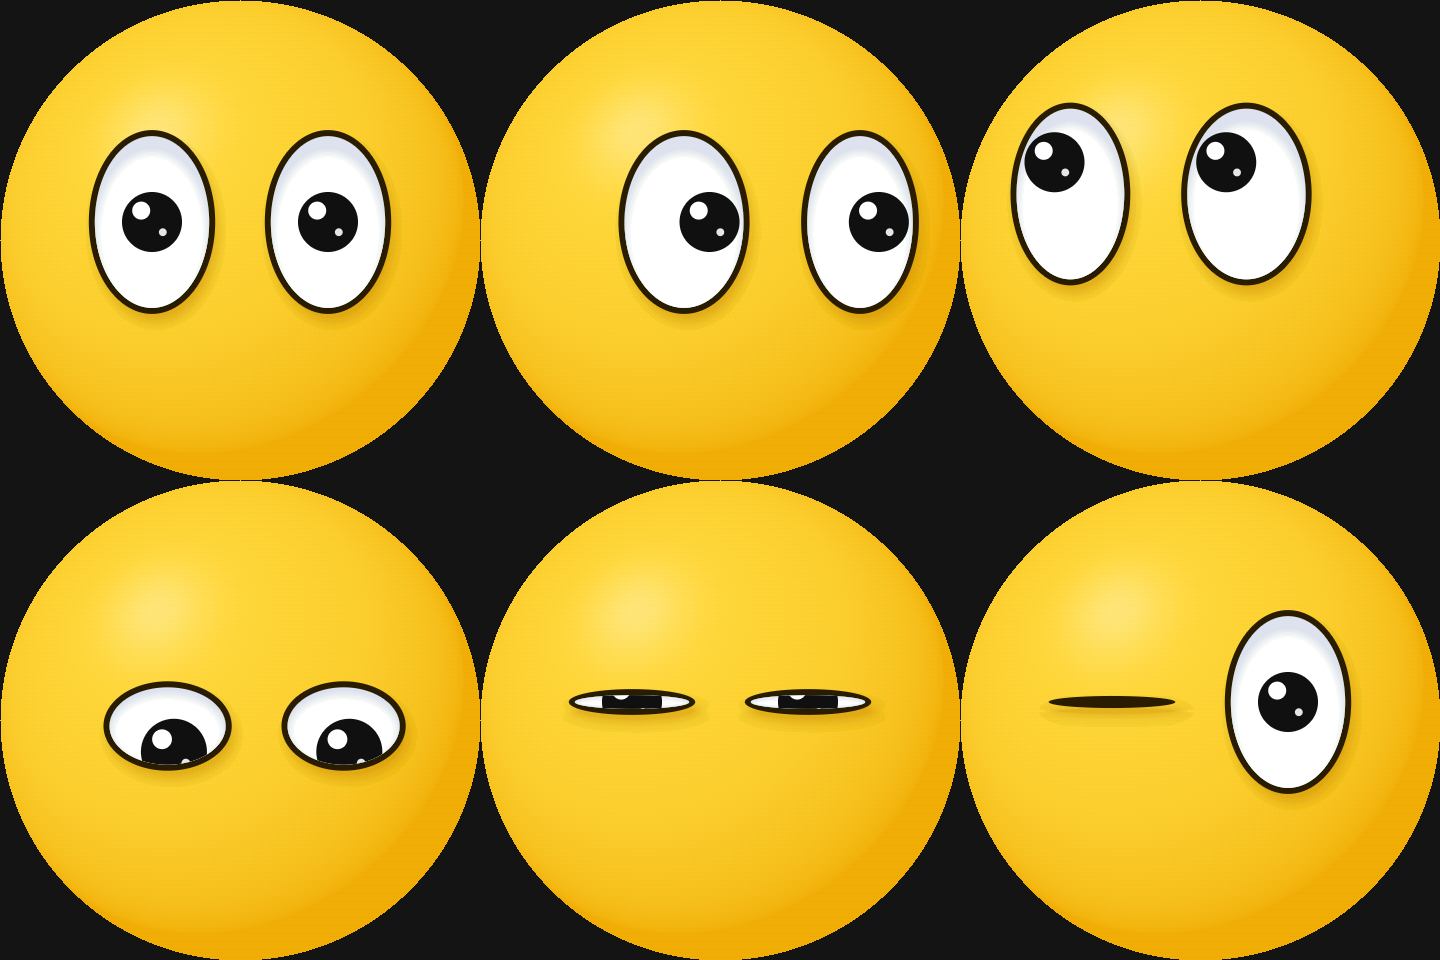
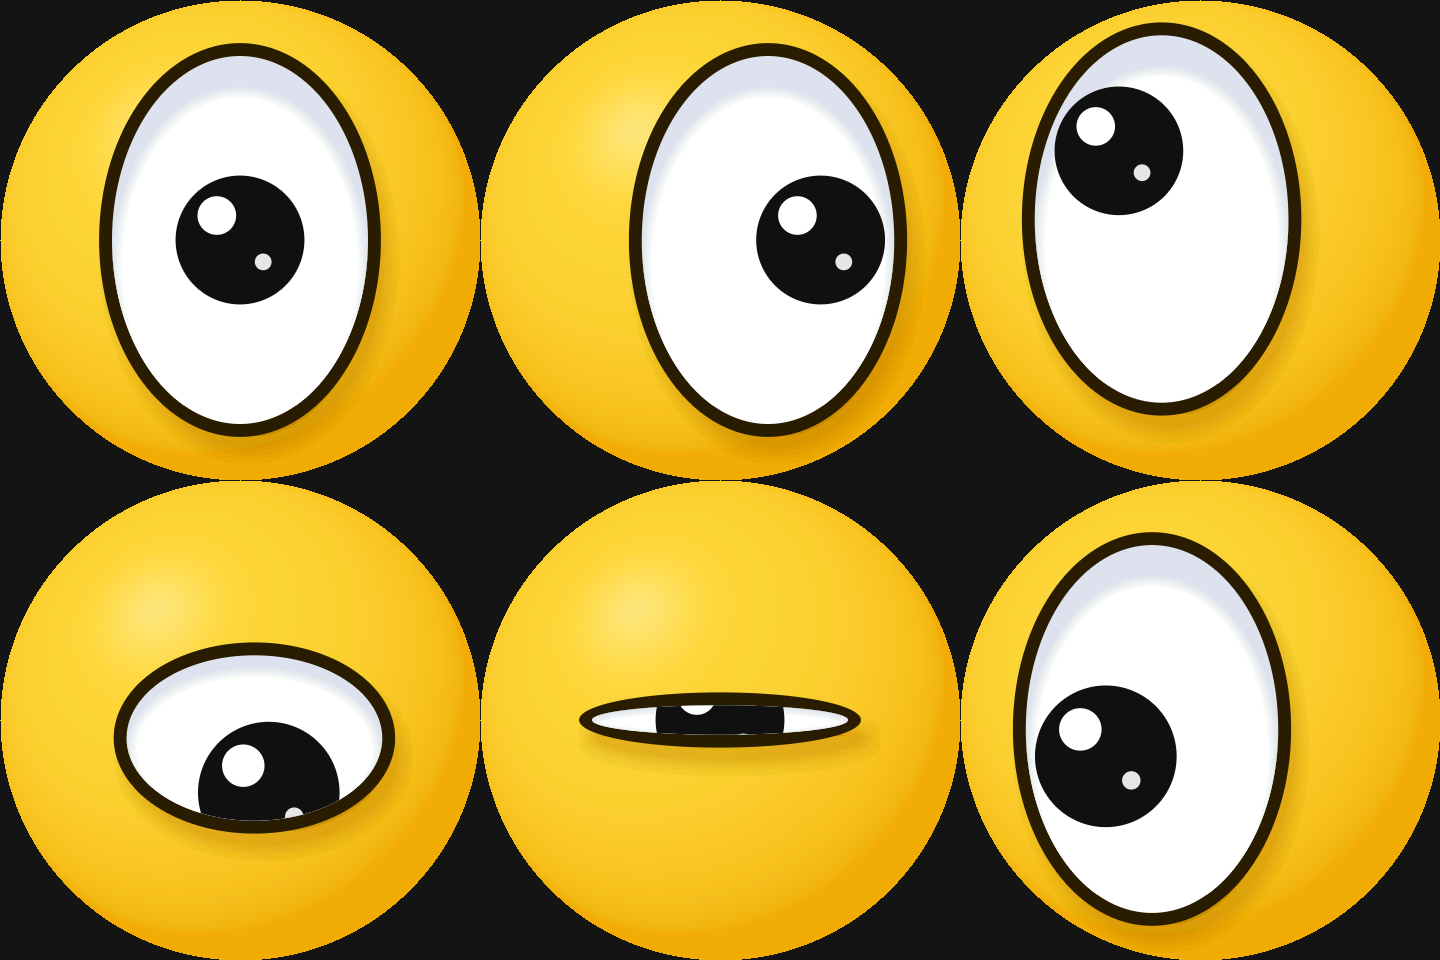
One eye per board: big single-eye Sphere style, eye side setting, less overdraw
- eyeStyleSphere now draws one large eye per screen; the two-eye layout stays as eyeStyleSphereFace
- Eye proportions scale with size; APP_EYE_IS_LEFT picks which eye of the pair a board is (winks, sync)
- Canvas fills can skip a hole that a later layer covers, so the big eye still renders at 30 fps

diff --git a/components/eyes/styles/style_sphere.c b/components/eyes/styles/style_sphere.c
@@ -1,5 +1,6 @@
-// style_sphere.c - Las Vegas Sphere look: a shaded yellow ball with two tall white cartoon eyes.
-// Eyes slide across the ball when looking around and get narrower near the rim, like a real globe.
+// style_sphere.c - Las Vegas Sphere look: shaded yellow ball with tall white cartoon eyes.
+// eyeStyleSphere draws one big eye per screen (each board is one eye). eyeStyleSphereFace puts both eyes
+// on one screen. Eyes slide across the ball when looking around and get narrower near the rim, like a globe.
 #include "eye_style.h"
 
 #include <math.h>
@@ -18,17 +19,28 @@
 // ---------- Geometry (480x480 screen) ----------
 #define SCREEN_C        240.0f      // Screen and ball center
 #define BALL_R          240.0f      // Ball radius = round panel radius
-#define EYE_SPACING     88.0f       // Eye center distance from the middle
-#define EYE_Y           222.0f      // Eye center height at rest
-#define EYE_RX          60.0f       // Eye half width
-#define EYE_RY          86.0f       // Eye half height
-#define OUTLINE_W       6.0f        // Outline thickness
-#define PUPIL_R         30.0f       // Pupil radius
-#define FACE_SHIFT_X    52.0f       // How far the whole face slides at full gaze
-#define FACE_SHIFT_Y    40.0f
-#define SHADOW_DX       4.0f        // Drop shadow offset and softness
-#define SHADOW_DY       9.0f
-#define SHADOW_SOFT     14.0f
+
+// Proportions of one eye, relative to its half height (ry). Same look at any size.
+#define OUTLINE_K       0.07f       // Outline thickness
+#define PUPIL_K         0.35f       // Pupil radius
+#define SHADOW_DX_K     0.05f       // Drop shadow offset
+#define SHADOW_DY_K     0.10f
+#define SHADOW_SOFT_MAX 18.0f       // Soft edge limit in px (wider bands cost CPU)
+#define LID_SOFT_MAX    12.0f       // Soft edge of the lid shadow on the white
+
+// One eye per screen (each board is one eye of the face)
+#define EYE1_RX         128.0f      // Eye half width
+#define EYE1_RY         184.0f      // Eye half height
+#define EYE1_SHIFT_X    48.0f       // How far the eye slides at full gaze
+#define EYE1_SHIFT_Y    30.0f
+
+// Two eyes on one screen (whole face on one board)
+#define EYE2_SPACING    88.0f       // Eye center distance from the middle
+#define EYE2_Y          222.0f      // Eye center height at rest
+#define EYE2_RX         60.0f
+#define EYE2_RY         86.0f
+#define EYE2_SHIFT_X    52.0f
+#define EYE2_SHIFT_Y    40.0f
 
 // 4x4 ordered dither, so the gradient has no visible bands in RGB565
 static const uint8_t bayer4[4][4] = {{0, 8, 2, 10}, {12, 4, 14, 6}, {3, 11, 1, 9}, {15, 7, 13, 5}};
@@ -71,69 +83,103 @@ static void sphereBackground(uint16_t *buf, int w, int h) {
     }
 }
 
-static int sphereLayout(const face_state_t *face, eye_pose_t *poses, int maxPoses) {
+// Fill one pose: size with foreshortening toward the rim, openness, and pupil offset from the gaze
+static void placeEye(const face_state_t *face, eye_pose_t *p, float cx, float cy, float rx, float ry) {
+    p->cx = cx;
+    p->cy = cy;
+    float dx = (cx - SCREEN_C) / BALL_R;                                // Position on the ball, -1..1
+    float dy = (cy - SCREEN_C) / BALL_R;
+    p->rx = rx * (1.0f - 0.35f * dx * dx);                              // Narrower toward the rim, like a globe
+    p->ry = ry * (1.0f - 0.20f * dy * dy);
+    p->openness = p->isLeft ? face->openLeft : face->openRight;
+    p->pupilScale = face->pupilScale;
+    float pr = PUPIL_K * p->ry * p->pupilScale;
+    p->pupilDx = face->gazeX * (p->rx - pr - 0.05f * p->ry);           // Pupil looks too, staying inside the white
+    p->pupilDy = face->gazeY * (p->ry - pr - 0.12f * p->ry);
+}
+
+static int sphereEyeLayout(const face_state_t *face, eye_pose_t *poses, int maxPoses) {
+    if (maxPoses < 1) return 0;
+    poses[0].isLeft = face->isLeftEye;                                  // This board's eye
+    placeEye(face, &poses[0], SCREEN_C + face->gazeX * EYE1_SHIFT_X, SCREEN_C + face->gazeY * EYE1_SHIFT_Y,
+             EYE1_RX, EYE1_RY);
+    return 1;
+}
+
+static int sphereFaceLayout(const face_state_t *face, eye_pose_t *poses, int maxPoses) {
     if (maxPoses < 2) return 0;
-    float shiftX = face->gazeX * FACE_SHIFT_X;                          // Whole face slides toward the target
-    float shiftY = face->gazeY * FACE_SHIFT_Y;
+    float shiftX = face->gazeX * EYE2_SHIFT_X;                          // Whole face slides toward the target
+    float shiftY = face->gazeY * EYE2_SHIFT_Y;
     for (int i = 0; i < 2; i++) {
-        eye_pose_t *p = &poses[i];
-        p->isLeft = (i == 0);
-        p->cx = SCREEN_C + (p->isLeft ? -EYE_SPACING : EYE_SPACING) + shiftX;
-        p->cy = EYE_Y + shiftY;
-        float dx = (p->cx - SCREEN_C) / BALL_R;                         // Position on the ball, -1..1
-        float dy = (p->cy - SCREEN_C) / BALL_R;
-        p->rx = EYE_RX * (1.0f - 0.35f * dx * dx);                      // Foreshortening toward the rim
-        p->ry = EYE_RY * (1.0f - 0.20f * dy * dy);
-        p->openness = p->isLeft ? face->openLeft : face->openRight;
-        p->pupilScale = face->pupilScale;
-        float pr = PUPIL_R * p->pupilScale;
-        p->pupilDx = face->gazeX * (p->rx - pr - 4.0f);                 // Pupil looks too, staying inside the white
-        p->pupilDy = face->gazeY * (p->ry - pr - 10.0f);
+        poses[i].isLeft = (i == 0);
+        float cx = SCREEN_C + (poses[i].isLeft ? -EYE2_SPACING : EYE2_SPACING) + shiftX;
+        placeEye(face, &poses[i], cx, EYE2_Y + shiftY, EYE2_RX, EYE2_RY);
     }
     return 2;
 }
 
+static float shadowSoft(const eye_pose_t *pose) {
+    float soft = 0.16f * pose->ry;                                      // Softness grows with size, capped
+    return soft > SHADOW_SOFT_MAX ? SHADOW_SOFT_MAX : soft;
+}
+
 static eye_rect_t sphereBounds(const eye_pose_t *pose) {
-    // Drop shadow reaches farthest (offset + soft edge); outline is covered by it
-    eye_ellipse_t shadow = {pose->cx + SHADOW_DX, pose->cy + SHADOW_DY, pose->rx + OUTLINE_W, pose->ry + OUTLINE_W};
-    eye_rect_t r = canvasEllipseBounds(&shadow, SHADOW_SOFT + 1.0f);
-    if (r.x0 > pose->cx - pose->rx - OUTLINE_W - 2) r.x0 = (int)(pose->cx - pose->rx - OUTLINE_W - 2);  // Outline on the other side
-    if (r.y0 > pose->cy - pose->ry - OUTLINE_W - 2) r.y0 = (int)(pose->cy - pose->ry - OUTLINE_W - 2);
+    float ow = OUTLINE_K * pose->ry;
+    // Drop shadow reaches farthest down and right; the outline reaches farthest up and left
+    eye_ellipse_t shadow = {pose->cx + SHADOW_DX_K * pose->ry, pose->cy + SHADOW_DY_K * pose->ry, pose->rx + ow, pose->ry + ow};
+    eye_rect_t r = canvasEllipseBounds(&shadow, shadowSoft(pose) + 1.0f);
+    eye_ellipse_t outline = {pose->cx, pose->cy, pose->rx + ow, pose->ry + ow};
+    eye_rect_t o = canvasEllipseBounds(&outline, 2.0f);
+    if (o.x0 < r.x0) r.x0 = o.x0;
+    if (o.y0 < r.y0) r.y0 = o.y0;
     return r;
 }
 
 static void sphereDrawEye(eye_canvas_t *cv, const eye_pose_t *pose) {
     float open = pose->openness < 0.0f ? 0.0f : (pose->openness > 1.0f ? 1.0f : pose->openness);
     float ry = pose->ry * open;                                         // Blink squashes the eye toward its middle
+    float ow = OUTLINE_K * pose->ry;                                    // Outline width for this size
 
-    eye_ellipse_t shadow = {pose->cx + SHADOW_DX, pose->cy + SHADOW_DY, pose->rx + OUTLINE_W, ry + OUTLINE_W};
-    canvasFillEllipse(cv, &shadow, EYE_SHADOW, 90, SHADOW_SOFT, NULL); // Soft drop shadow on the ball
-
-    eye_ellipse_t outline = {pose->cx, pose->cy, pose->rx + OUTLINE_W, ry + OUTLINE_W};
-    canvasFillEllipse(cv, &outline, EYE_OUTLINE, 255, 1.0f, NULL);     // Shut eye = just this dark line
-    if (ry < 1.0f) return;
-
+    eye_ellipse_t outline = {pose->cx, pose->cy, pose->rx + ow, ry + ow};
     eye_ellipse_t sclera = {pose->cx, pose->cy, pose->rx, ry};
-    canvasFillEllipse(cv, &sclera, SCLERA_SHADE, 255, 1.0f, NULL);     // Shaded white
+    float lidSoft = 0.12f * pose->ry > LID_SOFT_MAX ? LID_SOFT_MAX : 0.12f * pose->ry;
     eye_ellipse_t lit = {pose->cx, pose->cy + ry * 0.14f, pose->rx * 0.97f, ry * 0.95f};
-    canvasFillEllipse(cv, &lit, SCLERA_WHITE, 255, 10.0f, &sclera);    // Bright lower part, soft lid shadow on top
+    eye_ellipse_t litCore = {lit.cx, lit.cy, lit.rx - lidSoft, lit.ry - lidSoft};    // Where the white is solid
+    bool open1 = ry >= 1.0f;                                            // Any white showing
 
-    float pr = PUPIL_R * pose->pupilScale;
+    eye_ellipse_t shadow = {pose->cx + SHADOW_DX_K * pose->ry, pose->cy + SHADOW_DY_K * pose->ry, pose->rx + ow, ry + ow};
+    canvasFillEllipse(cv, &shadow, EYE_SHADOW, 90, shadowSoft(pose), NULL, &outline);   // Soft drop shadow, only outside the eye
+    canvasFillEllipse(cv, &outline, EYE_OUTLINE, 255, 1.0f, NULL, open1 ? &sclera : NULL);   // Shut eye = just this dark line
+    if (!open1) return;
+
+    canvasFillEllipse(cv, &sclera, SCLERA_SHADE, 255, 1.0f, NULL, litCore.ry > 0.0f ? &litCore : NULL);   // Shaded white
+    canvasFillEllipse(cv, &lit, SCLERA_WHITE, 255, lidSoft, &sclera, NULL);   // Bright lower part, soft lid shadow on top
+
+    float pr = PUPIL_K * pose->ry * pose->pupilScale;
     float px = pose->cx + pose->pupilDx;
     float py = pose->cy + pose->pupilDy;
     eye_ellipse_t pupil = {px, py, pr, pr};
-    canvasFillEllipse(cv, &pupil, PUPIL_COLOR, 255, 1.0f, &sclera);    // Pupil, hidden by the lids when blinking
+    canvasFillEllipse(cv, &pupil, PUPIL_COLOR, 255, 1.0f, &sclera, NULL);    // Pupil, hidden by the lids when blinking
 
+    // Glints sit upper left on both eyes: one light source for the whole face
     eye_ellipse_t glintBig = {px - pr * 0.36f, py - pr * 0.38f, pr * 0.30f, pr * 0.30f};
-    canvasFillEllipse(cv, &glintBig, GLINT_COLOR, 255, 1.0f, &sclera); // Main reflection
+    canvasFillEllipse(cv, &glintBig, GLINT_COLOR, 255, 1.0f, &sclera, NULL); // Main reflection
     eye_ellipse_t glintSmall = {px + pr * 0.36f, py + pr * 0.34f, pr * 0.13f, pr * 0.13f};
-    canvasFillEllipse(cv, &glintSmall, GLINT_COLOR, 230, 1.0f, &sclera);   // Second, smaller reflection
+    canvasFillEllipse(cv, &glintSmall, GLINT_COLOR, 230, 1.0f, &sclera, NULL);   // Second, smaller reflection
 }
 
 const eye_style_t eyeStyleSphere = {
     .name = "sphere",
     .renderBackground = sphereBackground,
-    .layout = sphereLayout,
+    .layout = sphereEyeLayout,
+    .bounds = sphereBounds,
+    .drawEye = sphereDrawEye,
+};
+
+const eye_style_t eyeStyleSphereFace = {
+    .name = "sphere_face",
+    .renderBackground = sphereBackground,
+    .layout = sphereFaceLayout,
     .bounds = sphereBounds,
     .drawEye = sphereDrawEye,
 };

diff --git a/components/eyes/eye_canvas.c b/components/eyes/eye_canvas.c
@@ -65,7 +65,7 @@ static inline void innerRange(float cx, float hw, int *a, int *b) {
 }
 
 void canvasFillEllipse(eye_canvas_t *cv, const eye_ellipse_t *shape, uint32_t color, uint8_t alpha,
-                       float edge, const eye_ellipse_t *clip) {
+                       float edge, const eye_ellipse_t *clip, const eye_ellipse_t *hole) {
     if (alpha == 0 || shape->rx <= 0.0f || shape->ry <= 0.0f) return;   // Nothing to draw
     if (edge < 1.0f) edge = 1.0f;                                       // Minimum is 1 px anti-aliasing
     const uint16_t src = canvasRgb565(color);
@@ -73,6 +73,7 @@ void canvasFillEllipse(eye_canvas_t *cv, const eye_ellipse_t *shape, uint32_t co
     const int alpha256 = alpha + (alpha >> 7);                          // 0..255 -> 0..256
     const prepared_t s = prepare(shape);
     const prepared_t c = clip ? prepare(clip) : s;
+    const prepared_t hp = hole ? prepare(hole) : s;
 
     // Rows the shape can touch, limited to the canvas
     int yStart = (int)floorf(shape->cy - shape->ry - edge);
@@ -111,12 +112,21 @@ void canvasFillEllipse(eye_canvas_t *cv, const eye_ellipse_t *shape, uint32_t co
         if (sb > xb) sb = xb;
         if (sb < sa) sb = sa;
 
-        uint16_t *row = cv->buf + (y - cv->y0) * cv->w - cv->x0;        // Index with screen x
-        for (int x = sa; x < sb; x++) {                                 // Solid run
-            row[x] = (alpha256 >= 256) ? src : blend565(row[x], src, alpha256);
+        int ha = xb, hb = xb;                                           // Pixels to skip (inside the hole)
+        if (hole) {
+            float holeIn = halfWidth(&hp, py - hp.cy, -1.0f);
+            if (holeIn >= 0.0f) innerRange(hp.cx, holeIn, &ha, &hb);
+            if (hb <= ha) ha = hb = xb;
         }
+
+        uint16_t *row = cv->buf + (y - cv->y0) * cv->w - cv->x0;        // Index with screen x
+        int runEnd = sb < ha ? sb : ha;                                 // Solid run up to the hole
+        int runStart = sa > hb ? sa : hb;                               // Solid run after the hole
+        for (int x = sa; x < runEnd; x++) row[x] = (alpha256 >= 256) ? src : blend565(row[x], src, alpha256);
+        for (int x = runStart; x < sb; x++) row[x] = (alpha256 >= 256) ? src : blend565(row[x], src, alpha256);
         for (int x = xa; x < xb; x++) {                                 // Edge pixels on both sides
             if (x == sa && sb > sa) { x = sb - 1; continue; }           // Skip the solid run
+            if (x >= ha && x < hb) { x = hb - 1; continue; }            // Skip the hole
             float px = x + 0.5f;
             float cov = coverage(&s, px, py, invEdge);
             if (clip && (x < ca || x >= cb)) {                          // Near the clip edge: combine coverages

diff --git a/components/eyes/include/eye_style.h b/components/eyes/include/eye_style.h
@@ -17,6 +17,7 @@ typedef struct {
     float openLeft, openRight;  // Lid openness, 0 shut .. 1 open
     float pupilScale;           // 1 = normal, >1 dilated
     uint32_t timeMs;            // Animation clock, for styles with idle motion
+    bool isLeftEye;             // Which eye this board shows (one-eye styles), viewer's left = true
 } face_state_t;
 
 // One eye ready to draw, in screen pixels
@@ -38,7 +39,8 @@ typedef struct eye_style {
 } eye_style_t;
 
 // Built-in styles (styles/*.c)
-extern const eye_style_t eyeStyleSphere;      // Yellow ball, white cartoon eyes (Las Vegas Sphere)
+extern const eye_style_t eyeStyleSphere;      // Yellow ball, one big white cartoon eye per screen (Las Vegas Sphere)
+extern const eye_style_t eyeStyleSphereFace;  // Same look, both eyes on one screen
 
 #ifdef __cplusplus
 }

diff --git a/components/eyes/include/eye_canvas.h b/components/eyes/include/eye_canvas.h
@@ -27,8 +27,9 @@ typedef struct {
 
 // Fill an ellipse. color = 0xRRGGBB, alpha 0..255, edge = soft edge width in px (1 = crisp anti-aliasing).
 // clip = optional ellipse the fill is limited to (anti-aliased), or NULL.
+// hole = optional ellipse to skip, for areas a later layer covers solidly anyway (saves overdraw), or NULL.
 void canvasFillEllipse(eye_canvas_t *cv, const eye_ellipse_t *shape, uint32_t color, uint8_t alpha,
-                       float edge, const eye_ellipse_t *clip);
+                       float edge, const eye_ellipse_t *clip, const eye_ellipse_t *hole);
 
 // Bounding box of an ellipse grown by margin px
 eye_rect_t canvasEllipseBounds(const eye_ellipse_t *e, float margin);

diff --git a/main/app_main.c b/main/app_main.c
@@ -62,6 +62,7 @@ static void renderTask(void *arg) {
     while (true) {
         syncStep();
         eyeAnimatorUpdate(nowMs(), &face);                              // Where to look, how open
+        face.isLeftEye = APP_EYE_IS_LEFT;                               // Which eye of the pair this board draws
         eyeRendererDraw(&face);                                         // Draw and flip
         if (++frames == APP_TARGET_FPS * 10) {                          // Frame rate in the log every 10 s
             uint32_t elapsed = nowMs() - fpsStartMs;

diff --git a/main/app_config.h b/main/app_config.h
@@ -3,6 +3,11 @@
 
 #include "board_config.h"
 
+// ---------- Which eye this board is ----------
+// Each board shows one eye. Mount the boards side by side as seen by the viewer.
+// 1 = viewer's left eye, 0 = viewer's right eye. Matters for winks and the ESP-NOW pair.
+#define APP_EYE_IS_LEFT         1
+
 // ---------- Rendering ----------
 #define APP_TARGET_FPS          30          // Animation frame rate (panel refreshes at about 64 Hz)
 #define APP_RENDER_CORE         1           // CPU core for the render task (Wi-Fi runs on core 0)

diff --git a/README.md b/README.md
@@ -1,8 +1,9 @@
 # ESP32_S3_LasVegasSpereEyes
 
 Las Vegas Sphere style eyeballs on the Waveshare ESP32-S3-Touch-LCD-2.8C (round 480x480 ST7701S panel).
-A shaded yellow ball with two white cartoon eyes that look around and blink. Later: follow people with an
-HLK-LD2450 radar, and keep two boards in step over ESP-NOW.
+Each board is one eye: a shaded yellow ball with a big white cartoon eye that looks around and blinks.
+Two boards side by side make the face. Later: follow people with an HLK-LD2450 radar, and keep the two
+boards in step over ESP-NOW.
 
 ![Preview](docs/preview.png)
 
@@ -28,7 +29,7 @@ Run that from the build folder. The boot log prints the frame rate every 10 s (1
 | File | What |
 |---|---|
 | `components/board/include/board_config.h` | Pins, panel timing, backlight level |
-| `main/app_config.h` | Frame rate, radar pins and on/off, ESP-NOW role |
+| `main/app_config.h` | Which eye this board is (`APP_EYE_IS_LEFT`), frame rate, radar pins and on/off, ESP-NOW role |
 | `main/secrets.h` | ESP-NOW keys and peer MAC. Gitignored: copy `main/secrets_example.h` |
 
 Backlight: GPIO6 PWM (5 kHz, 13-bit) drives an N-MOSFET on the LED cathode. The Waveshare demo boots at 70 %.
@@ -44,13 +45,14 @@ components/eyes       Renderer, animator, and the three plug-in points:
   gaze/               gaze_source_t: where to look (idle wander)
 components/ld2450     HLK-LD2450 UART driver + gaze source (off until wired)
 components/eye_sync   ESP-NOW leader/follower link + gaze source (off by default)
-main                  Picks style and gaze sources, runs the 30 fps render task
+main                  Picks style, eye side and gaze sources, runs the 30 fps render task
 ```
 
 Rendering redraws only the area around the eyes each frame (anti-aliased ellipses in an internal-RAM strip),
 then page-flips at the panel's frame boundary, so there is no tearing.
 
 - New look: add `styles/style_x.c` with an `eye_style_t`, declare it in `eye_style.h`, pass it to `eyeRendererInit`.
+  Built in: `eyeStyleSphere` (one eye per screen, default) and `eyeStyleSphereFace` (both eyes on one screen).
 - New blink: add a `blink_effect_t` in `blink/blink_effects.c` and append it to `blinkEffectTable` (append only: the index goes over ESP-NOW).
 - New input: implement `gaze_source_t` and add it to `gazeSources` in `app_main.c`. Higher in the list wins.
 
@@ -62,6 +64,7 @@ Untested on hardware: if the eyes look the wrong way, set `APP_RADAR_MIRROR_X tr
 
 ## Two boards (ESP-NOW)
 
-Set `APP_SYNC_ROLE` to 1 (leader) on one board and 2 (follower) on the other. Broadcast and unencrypted by
+Flash one board with `APP_EYE_IS_LEFT 1` and the other with `0`. Set `APP_SYNC_ROLE` to 1 (leader) on one
+board and 2 (follower) on the other. Broadcast and unencrypted by
 default, so no MAC or key is needed. The follower copies the leader's gaze and blinks, and falls back to its
 own idle wander if the leader goes quiet. Untested on hardware.
